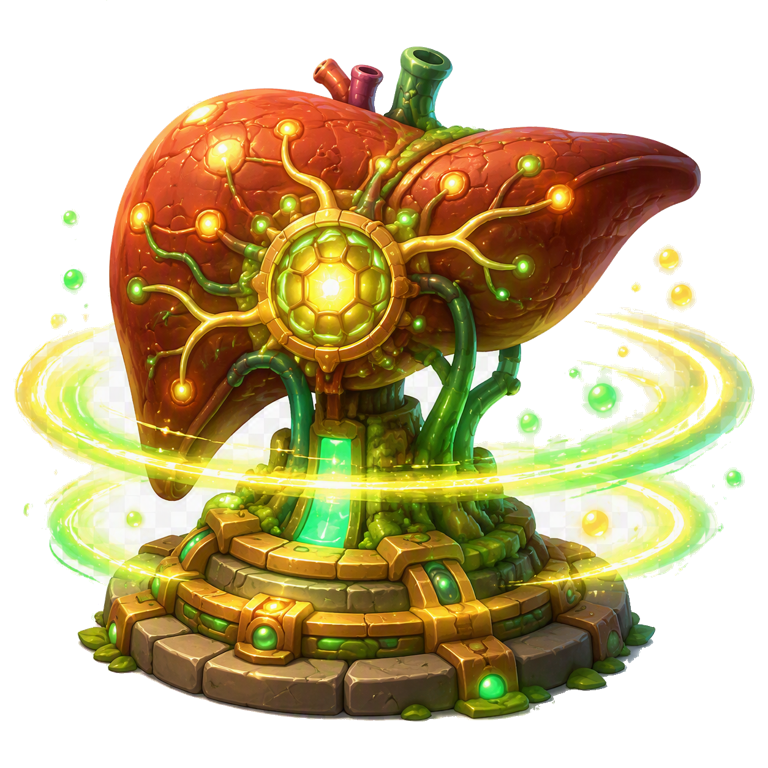
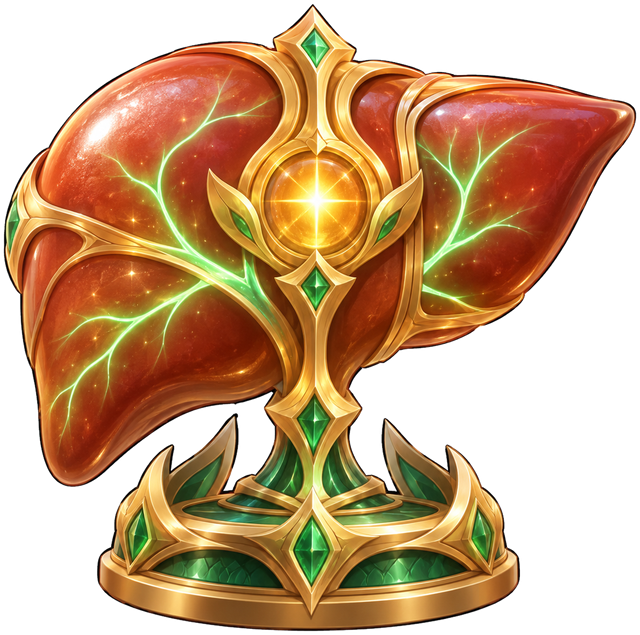
간 가디언 스프라이트 교체 (ChatGPT 생성 → 알파 키잉 → 게임 반영)
파일럿 1종으로 파이프라인 전 구간을 실측 검증했다.
- ChatGPT 웹에서 생성(1254x1254 흰 배경) → 페이지 blob 다운로드 → key_alpha.py 키잉
  → 640x635 투명 PNG(모서리 알파 0, 불투명 62%) → assets/liver.png 교체
- 기존 에셋은 assets/liver_v1_backup.png 로 보존, beta 캐시버스터 b52
- README에 웹 자동화 레시피 기록: 다운로드 버튼 대신 blob 방식이 필요하고,
  이미지 src를 JS 반환값으로 내보내면 확장이 차단한다는 함정 포함

Claude-Session: https://claude.ai/code/session_01Q4z5A9JYRBH96K3UeeTEyv

diff --git a/beta/index.html b/beta/index.html
@@ -311,6 +311,6 @@
 <div id="crosshair"><div class="ring"></div><div id="ch-fx"><div class="prog"></div><span class="txt"></span></div></div>
 
 <script type="importmap">{ "imports": { "three": "../vendor/three.module.js" } }</script>
-<script type="module" src="./main.js?v=b51"></script>
+<script type="module" src="./main.js?v=b52"></script>
 </body>
 </html>
